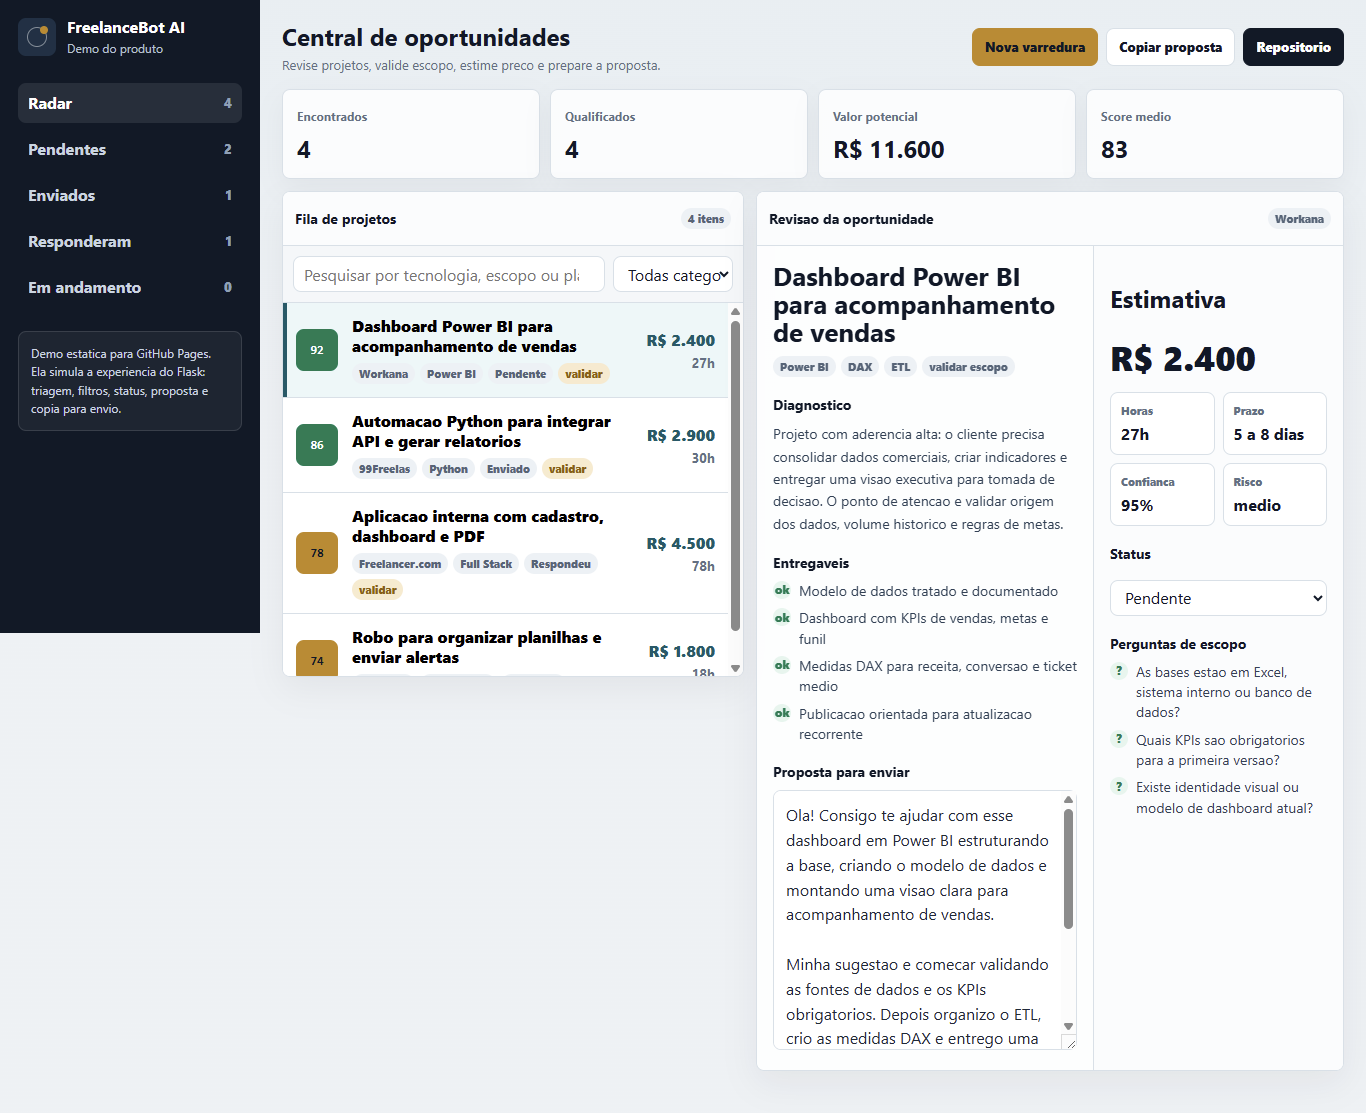
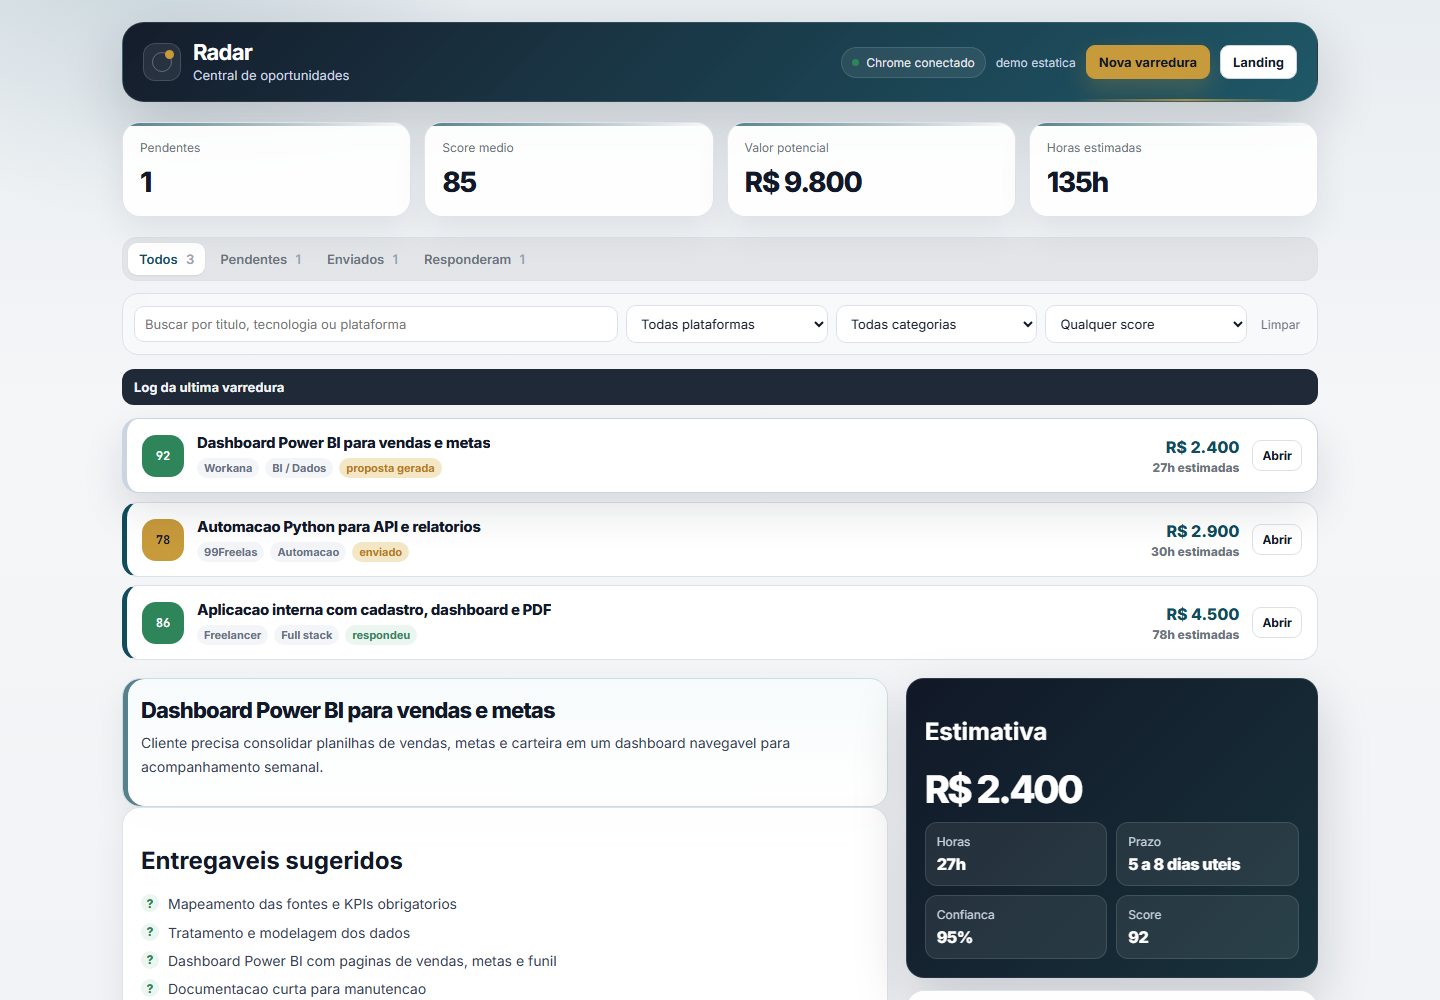
Update landing dashboard preview

diff --git a/docs/index.html b/docs/index.html
@@ -71,6 +71,9 @@
     min-height: 610px;
     perspective: 1200px;
   }
+  .visual.preview-shot { min-height: auto; display: block; border-radius: 28px; border: 1px solid rgba(17,24,39,.1); background: white; overflow: hidden; box-shadow: var(--shadow); transform: rotateX(2deg) rotateY(-4deg) rotateZ(.4deg); }
+  .visual.preview-shot img { width: 100%; height: auto; display: block; }
+
   .halo { position: absolute; inset: 42px 20px auto auto; width: 420px; height: 420px; border-radius: 50%; background: radial-gradient(circle, rgba(15,76,92,.22), transparent 64%); filter: blur(6px); }
   .console {
     position: absolute;
@@ -205,6 +208,7 @@
     .visual { min-height: auto; }
     .halo, .route { display: none; }
     .console, .estimate, .proposal { position: static; width: auto; transform: none; margin: 14px 0; animation: none; }
+    .visual.preview-shot { transform: none; border-radius: 18px; }
     .console { height: auto; border-radius: 24px; }
     .opportunity, .opportunity:nth-child(2), .opportunity:nth-child(3) { grid-template-columns: 1fr; transform: none; }
     .money { text-align: left; }
@@ -240,47 +244,9 @@
       </div>
     </section>
 
-    <section class="visual" aria-label="Demonstração animada do produto">
-      <div class="halo"></div>
-      <div class="console">
-        <div class="console-top"><strong>Radar</strong><span class="live">varredura concluída</span></div>
-        <div class="console-body">
-          <article class="opportunity">
-            <div class="score">92</div>
-            <div><div class="opp-title">Dashboard Power BI para vendas</div><div class="chips"><span class="chip">Power BI</span><span class="chip">Médio</span><span class="chip">validação</span></div></div>
-            <div class="money">R$ 2.400<div class="hours">27h</div></div>
-          </article>
-          <article class="opportunity">
-            <div class="score">78</div>
-            <div><div class="opp-title">Automação Python com API</div><div class="chips"><span class="chip">Python</span><span class="chip">API</span><span class="chip">logs</span></div></div>
-            <div class="money">R$ 2.900<div class="hours">30h</div></div>
-          </article>
-          <article class="opportunity">
-            <div class="score">86</div>
-            <div><div class="opp-title">Aplicação interna sob medida</div><div class="chips"><span class="chip">Full stack</span><span class="chip">escopo</span><span class="chip">API</span></div></div>
-            <div class="money">R$ 4.500<div class="hours">78h</div></div>
-          </article>
-        </div>
-      </div>
-      <aside class="estimate">
-        <small>Estimativa selecionada</small>
-        <div class="price">R$ 2.400</div>
-        <div class="estimate-grid">
-          <div class="cell"><span>Horas</span><strong>27h</strong></div>
-          <div class="cell"><span>Prazo</span><strong>5 a 8 dias</strong></div>
-          <div class="cell"><span>Categoria</span><strong>Power BI</strong></div>
-          <div class="cell"><span>Confiança</span><strong>95%</strong></div>
-        </div>
-      </aside>
-      <div class="route"></div>
-      <aside class="proposal">
-        <strong>Proposta para a plataforma</strong>
-        <div class="line"></div>
-        <div class="line"></div>
-        <div class="line"></div>
-        <div class="line"></div>
-      </aside>
-    </section>
+    <a class="visual preview-shot" href="demo.html" aria-label="Abrir dashboard do FreelanceBot Radar">
+      <img src="images/demo-dashboard.png?v=332f6a8-dashboard" alt="Dashboard real do FreelanceBot Radar com oportunidades, KPIs e proposta">
+    </a>
   </main>
 
   <section class="sections" id="fluxo">
